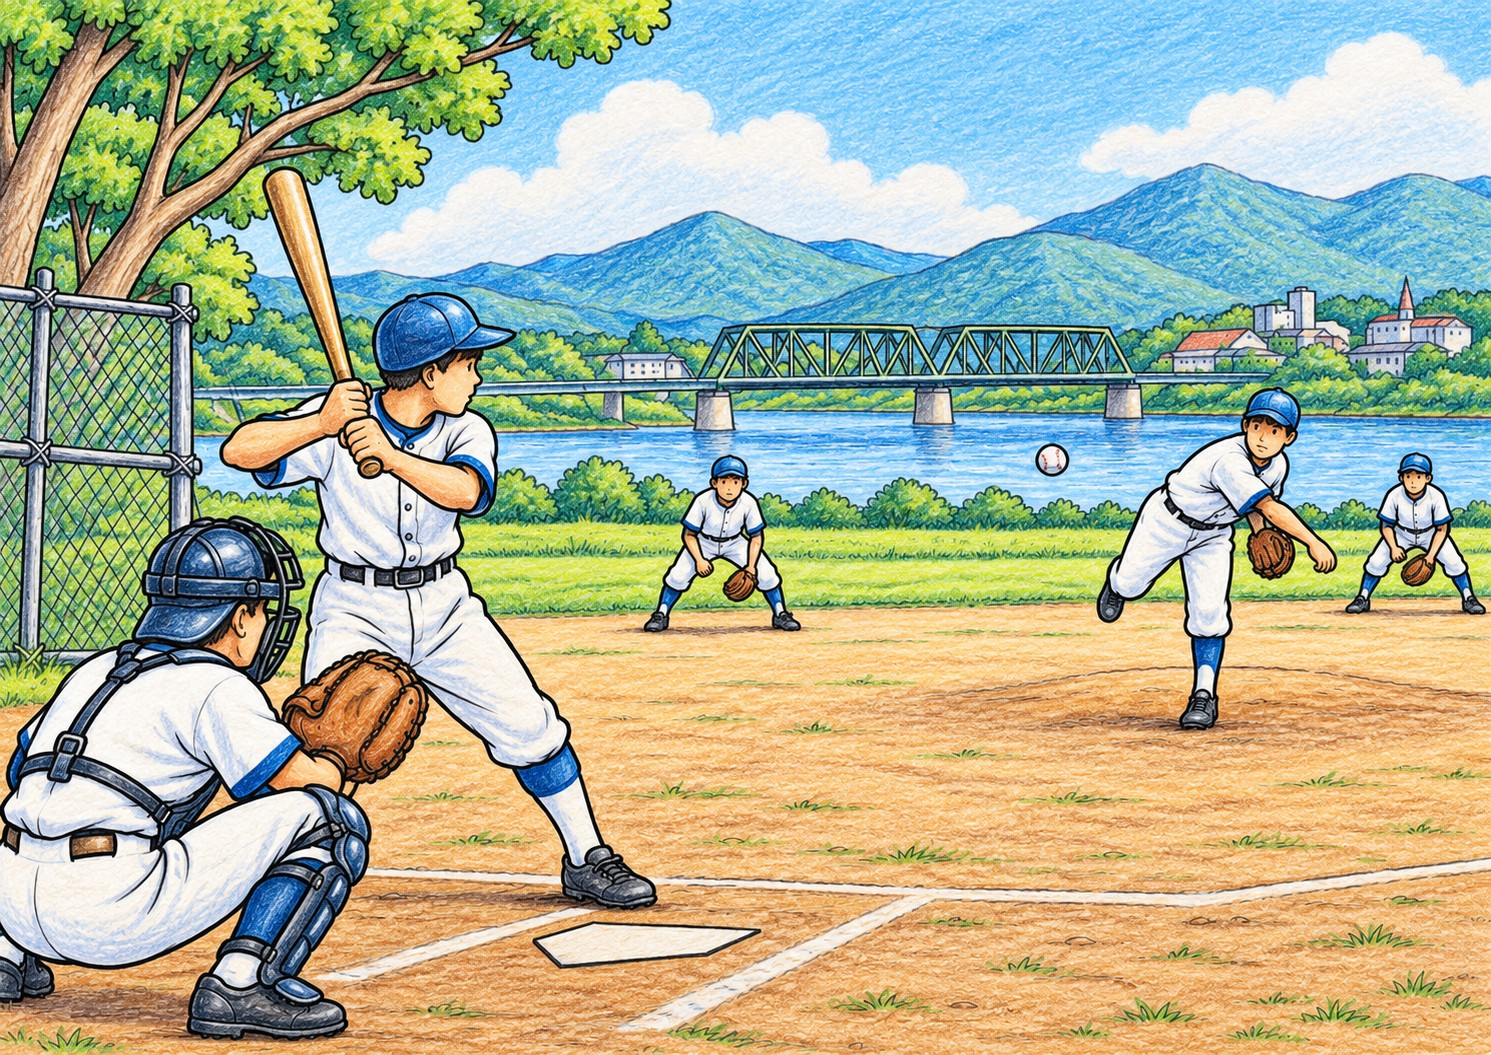
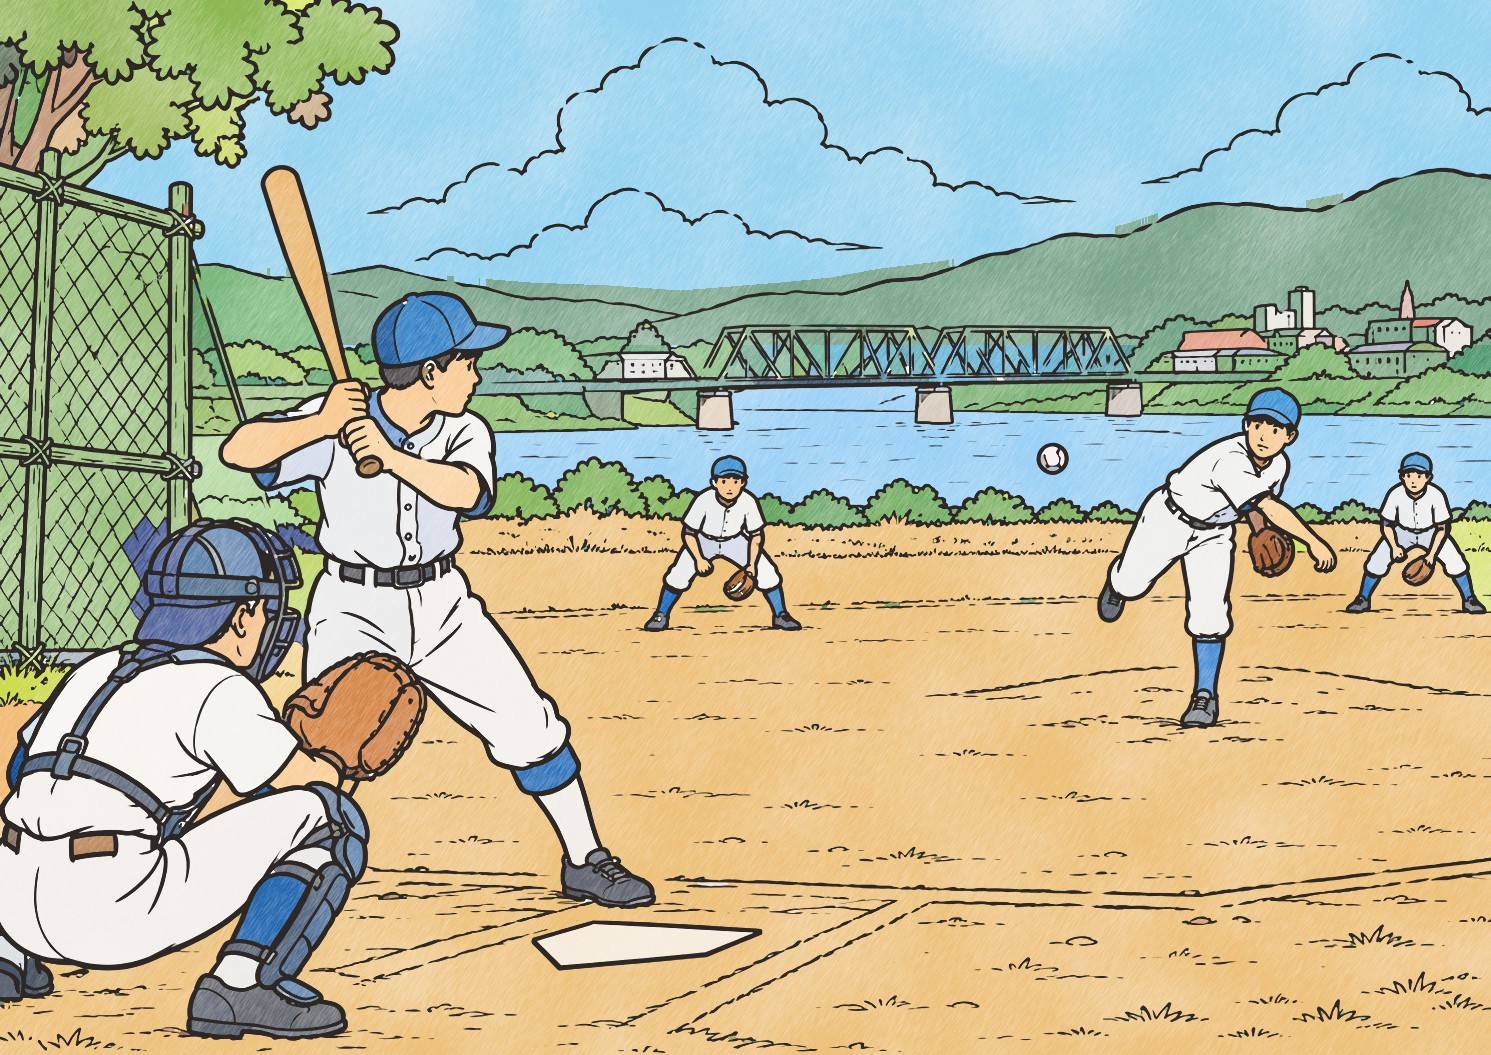
草野球の色見本を線画に合わせて作り直し
Claude-Session: https://claude.ai/code/session_01EPRbSQ3rtMhzgBwCAHuB7h

diff --git a/data.js b/data.js
@@ -1062,7 +1062,7 @@ window.NURIE_LIST = [
   { season: "通年", genre: "風景", title: "漁港と漁船", diff: "上級", file: "gyoko_jo.png", sample: "gyoko_jo_sample.jpg", added: "2026-10", date: "2026-10-31", v: "1793449639821" },
   { season: "通年", genre: "人物", title: "渓流釣り", diff: "中級", file: "keiryu_zuri_chu.png", sample: "keiryu_zuri_chu_sample.jpg", added: "2026-10", date: "2026-10-31", v: "1793449639821" },
   { season: "通年", genre: "その他", title: "大工道具", diff: "初級", file: "daiku_dougu_sho.png", sample: "daiku_dougu_sho_sample.jpg", added: "2026-10", date: "2026-10-31", v: "1793449639821" },
-  { season: "通年", genre: "人物", title: "草野球", diff: "中級", file: "kusayakyu_chu.png", sample: "kusayakyu_chu_sample.jpg", added: "2026-10", date: "2026-10-31", v: "1793449639821" },
+  { season: "通年", genre: "人物", title: "草野球", diff: "中級", file: "kusayakyu_chu.png", sample: "kusayakyu_chu_sample.jpg", added: "2026-10", date: "2026-10-31", v: "1793451352088" },
   { season: "通年", genre: "風景", title: "灯台と海", diff: "中級", file: "toudai_chu.png", sample: "toudai_chu_sample.jpg", added: "2026-10", date: "2026-10-31", v: "1793449639821" },
   { season: "通年", genre: "乗り物", title: "帆船", diff: "上級", file: "hansen_jo.png", sample: "hansen_jo_sample.jpg", added: "2026-10", date: "2026-10-31", v: "1793449639821" },
   { season: "通年", genre: "乗り物", title: "熱気球", diff: "初級", file: "kikyu_sho.png", sample: "kikyu_sho_sample.jpg", added: "2026-10", date: "2026-10-31", v: "1793449639821" },
